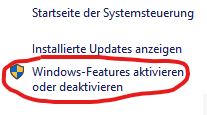
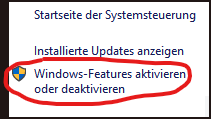
dunkle Ramen

Changed region(s): [[0.0, 0.0, 1.0, 1.0], [0.1449, 0.0522, 0.9565, 0.2087], [0.5797, 0.5217, 0.6087, 0.5478]]

diff --git a/Tastatur/Windows.md b/Tastatur/Windows.md
@@ -44,11 +44,12 @@ Es kann sein, dass es noch eine Warnung wegen fehlendem **.NET Framework Version
 
 ![Warnung zu fehlendem .NET](assets/03_WarungDotNet.png)  
 
-Wie du das beheben kannst, findet du hier: [.NET Framework nachinstallieren](#.NET_Framework_nachinstallieren)  
+Wie du das beheben kannst, findet du hier (weiter unten): [.NET Framework nachinstallieren](#.NET_Framework_nachinstallieren)  
 
 Den Installationprozess in 3 Schritten durchgehen:  
 
 ![Schritt 1](assets/04_Install_Step_1.png) ![Schritt 2](assets/05_Install_Step_2.png) ![Schritt 3](assets/06_Install_Step_3.png)
+
 
 
 
